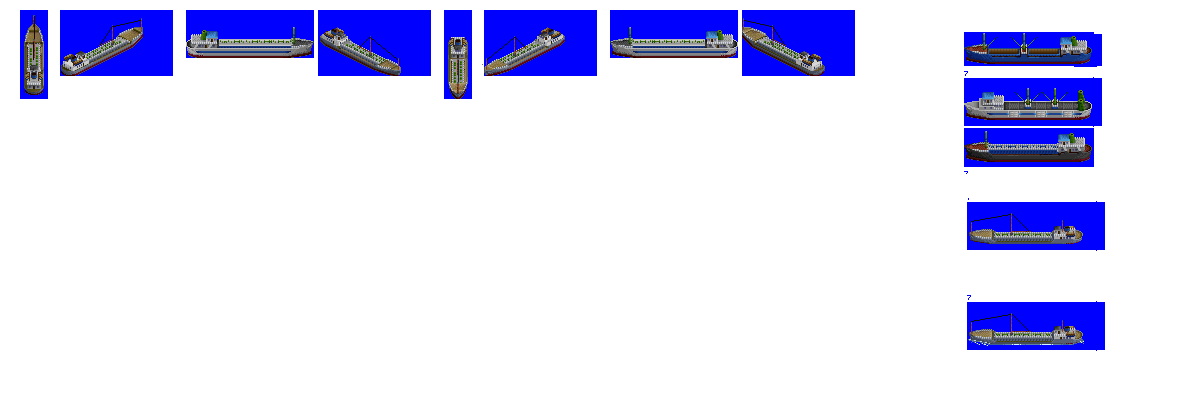
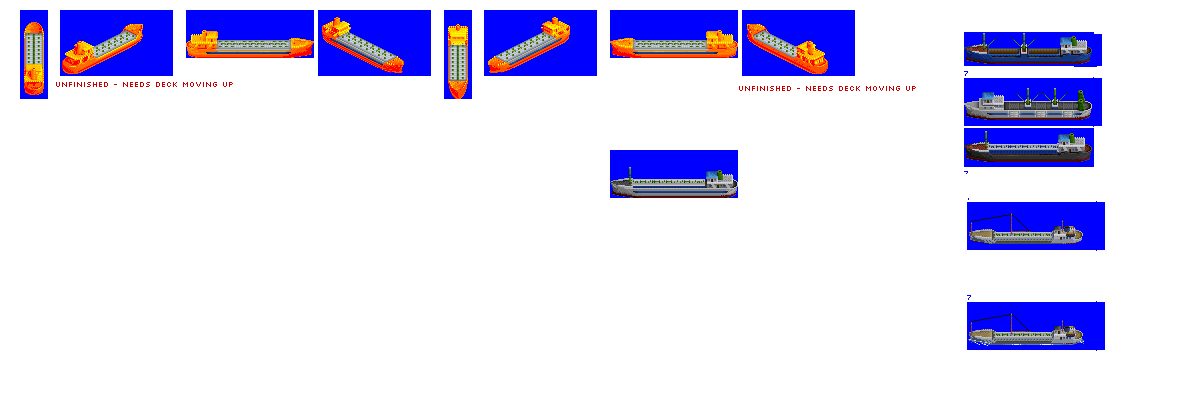
Change: WIP on large edibles tanker

diff --git a/src/graphics_processor/graphics_constants.py b/src/graphics_processor/graphics_constants.py
@@ -22,9 +22,10 @@ vehicles_input_dir = 'ships'
 # label order matters, so tuples are used not dicts
 # could probably have used orderedict or named tuple, but...blah
 
-# Livery Only
 # keep cargos in alphabetical order for ease of reading
 # DFLT label is a hack to provide specific livery for unknown cargos and should not be added to cargo translation table
+
+# Tankers
 # OIL_ is in first position as the buy menu sprites should be the Oil sprites, and this is the easiest way to do it
 # in principle that's wrong, because in a map without oil, the buy menu won't match the sprites of the vehicle when built
 # try it and see what happens eh?
@@ -44,6 +45,11 @@ tanker_livery_recolour_maps = (("OIL_", {136: 1, 137: 2, 138: 3, 139: 4,
                                          140: 44, 141: 45, 142: 46, 143: 47}),
                                ("PETR", {136: 16, 137: 17, 138: 18, 139: 19,
                                          140: 20, 141: 21, 142: 22, 143: 23}))
+# Edibles tankers, only DFLT is used as of Jan 2018
+edibles_tanker_livery_recolour_maps = (# see note on DFLT above
+                                      ("DFLT", {136: 5, 137: 7, 138: 8, 139: 9,
+                                                140: 10, 141: 11, 142: 12, 143: 13,
+                                                60: 1, 72: 3, 123: 4, 74: 5, 75: 4}),)
 # Containers
 # !! simple recolouring, not cargo specific.  May need work ??  Could be cargo-specific??
 container_recolour_maps = ({170 + i: CC1 + i for i in range(8)},

diff --git a/src/graphics_processor/gestalt_graphics.py b/src/graphics_processor/gestalt_graphics.py
@@ -98,6 +98,7 @@ class GestaltGraphicsLiveryOnly(GestaltGraphics):
         # options
         self.livery_only = True
         self.tanker = False
+        self.edibles_tanker = False
         # self.container = False # !! add support for containers here when needed
 
     @property
@@ -130,6 +131,8 @@ class GestaltGraphicsLiveryOnly(GestaltGraphics):
         # !! needs extending for alternative types, e.g. tankers, etc
         if self.tanker:
             return graphics_constants.tanker_livery_recolour_maps
+        if self.edibles_tanker:
+            return graphics_constants.edibles_tanker_livery_recolour_maps
         else:
             return {}
 

diff --git a/src/ship.py b/src/ship.py
@@ -498,7 +498,7 @@ class EdiblesTanker(Ship):
         self.default_cargo = 'WATR'
         # Graphics configuration
         self.gestalt_graphics = GestaltGraphicsLiveryOnly()
-        self.gestalt_graphics.tanker = True
+        self.gestalt_graphics.edibles_tanker = True
 
 
 class Reefer(Ship):
